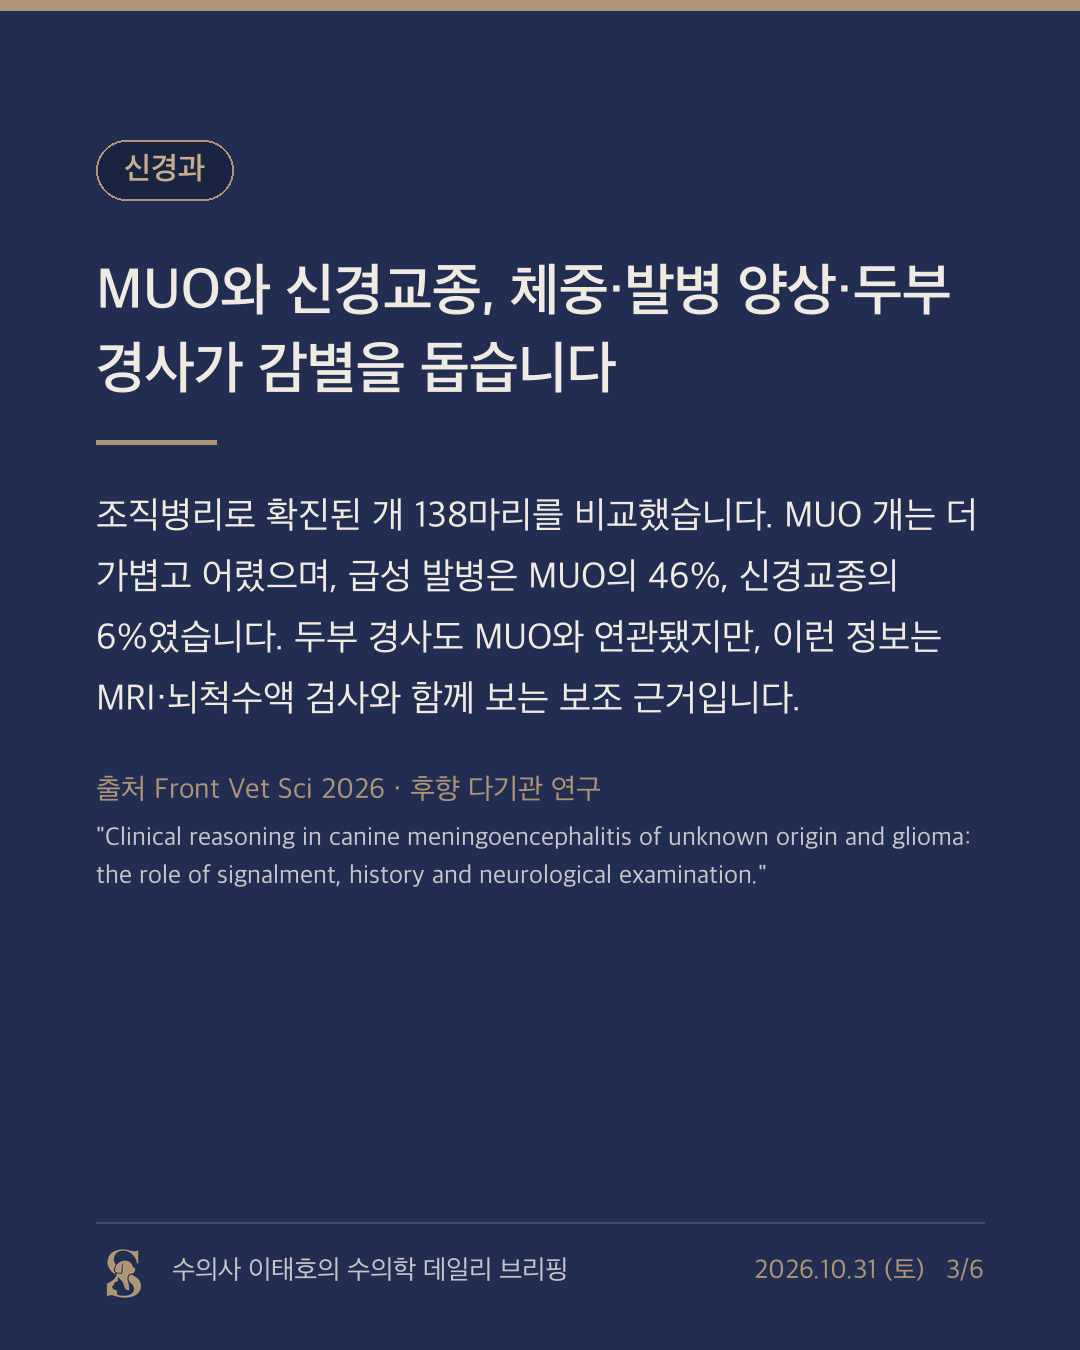
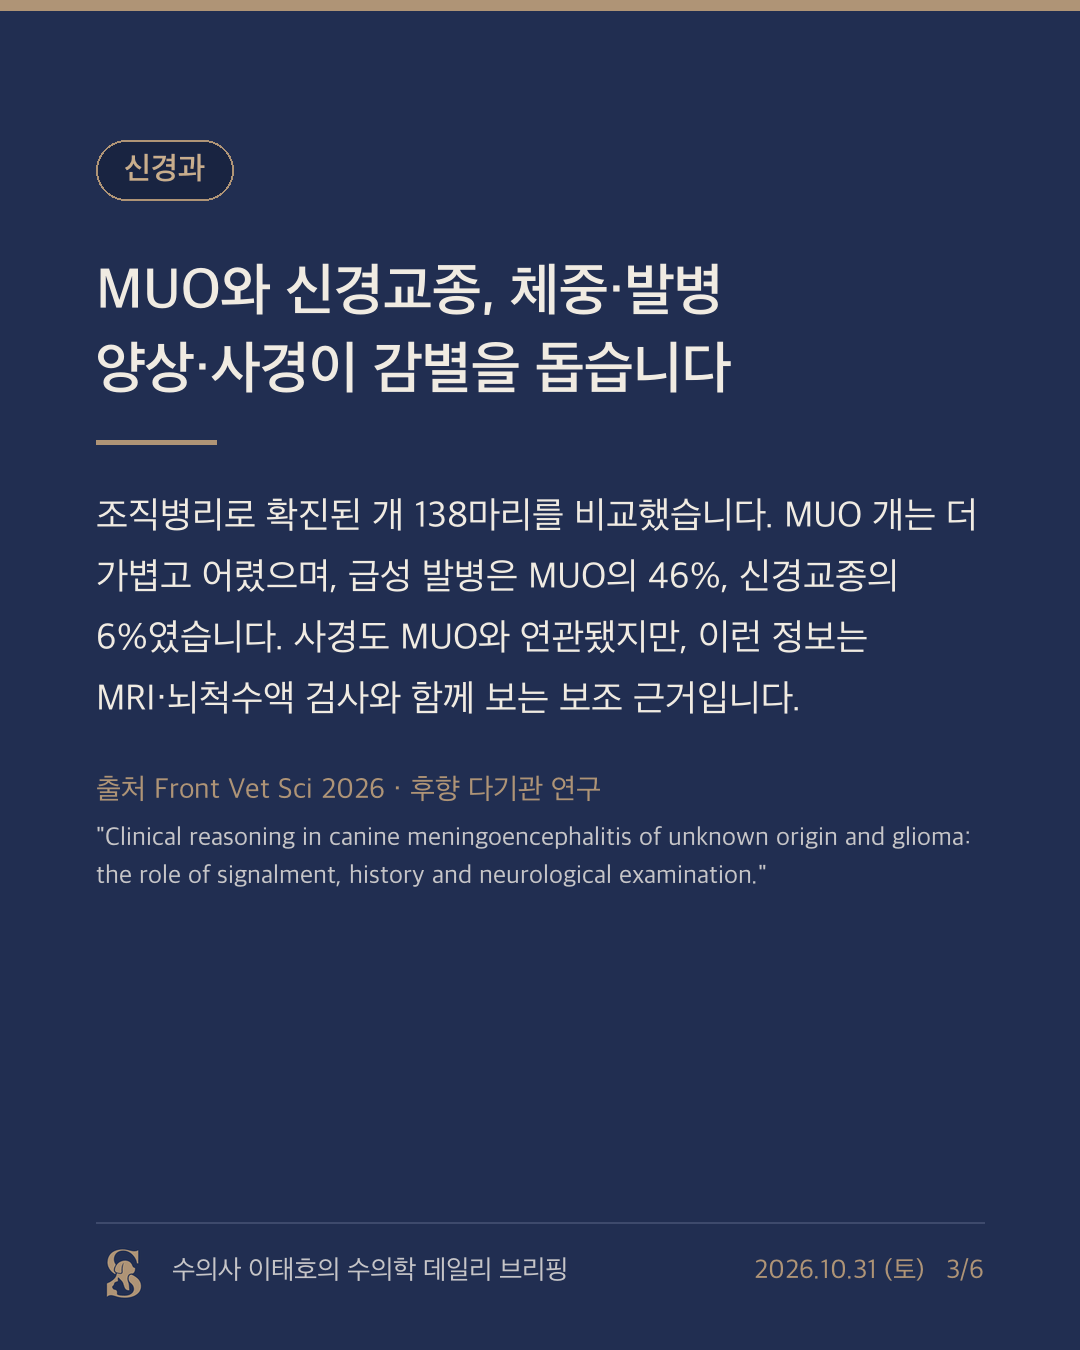
브리핑 2026-10-31 사경 표기

Changed region(s): [[0.0917, 0.2489, 0.6722, 0.3111], [0.275, 0.4356, 0.8556, 0.4978], [0.6722, 0.1867, 0.8861, 0.2489]]

diff --git a/reports/2026-10-31.md b/reports/2026-10-31.md
@@ -19,13 +19,13 @@ episode 수 중앙값은 시작 시점 6회(범위 2–60)에서 180일째 2회(
 - **근거 수준** — 전향 코호트 연구(개 23마리, 대조군 없음)
 - **교신저자** — Samuel Okonji (Department of Veterinary Medical Sciences, University of Bologna)
 
-### MUO인가 신경교종인가, 체중·발병 양상·두부 경사로 기울기를 가늠한다
+### MUO인가 신경교종인가, 체중·발병 양상·사경으로 기울기를 가늠한다
 
 MRI와 뇌척수액 소견이 애매할 때 원인불명 수막뇌염(MUO)과 신경교종을 가르는 일은 늘 어렵다. 하노버 수의대와 UC 데이비스가 조직병리로 진단이 확정된 개 138마리(MUO 70마리, 신경교종 68마리)의 신호, 병력, 신경학적 검사 소견을 비교했다.
 
-MUO 개는 체중 중앙값 10.50 kg, 나이 중앙값 5.00세로 신경교종 개(23.90 kg, 7.04세)보다 가볍고 어렸다(각각 p = 0.0007). 급성 발병(1–7일)은 MUO 69마리 중 32마리(46.38%), 신경교종 68마리 중 4마리(5.88%)였고, 14일을 넘는 만성 병력은 거꾸로 신경교종 쪽이 67.65%로 MUO의 31.88%보다 많았다. 다변량 모형에서 체중이 1 kg 늘 때마다 MUO일 오즈는 0.910배로 줄었고(95% CI 0.861–0.961), 두부 경사가 없으면 MUO일 오즈가 0.249배였다(95% CI 0.062–0.998). 체중 7.70 kg 이하를 기준으로 잡으면 MUO에 대한 특이도는 95.6%였지만 민감도는 40.6%에 그쳤다.
+MUO 개는 체중 중앙값 10.50 kg, 나이 중앙값 5.00세로 신경교종 개(23.90 kg, 7.04세)보다 가볍고 어렸다(각각 p = 0.0007). 급성 발병(1–7일)은 MUO 69마리 중 32마리(46.38%), 신경교종 68마리 중 4마리(5.88%)였고, 14일을 넘는 만성 병력은 거꾸로 신경교종 쪽이 67.65%로 MUO의 31.88%보다 많았다. 다변량 모형에서 체중이 1 kg 늘 때마다 MUO일 오즈는 0.910배로 줄었고(95% CI 0.861–0.961), 사경이 없으면 MUO일 오즈가 0.249배였다(95% CI 0.062–0.998). 체중 7.70 kg 이하를 기준으로 잡으면 MUO에 대한 특이도는 95.6%였지만 민감도는 40.6%에 그쳤다.
 
-**임상적 의미** — 7–8 kg 이하 소형견이 며칠 사이에 급하게 나빠졌고 머리를 기울이고 있다면 MUO 쪽으로 무게를 더 둘 수 있다. 반대로 덩치 큰 중년 개가 몇 주에 걸쳐 서서히 진행했다면 MRI가 염증처럼 보여도 신경교종을 쉽게 지우지 않는 편이 맞다. 저자들도 강조했듯 체중 기준은 이 코호트에서 탐색적으로 잡은 값이고 민감도가 낮아, MRI·뇌척수액·감염 검사와 함께 보는 보조 정보다. 면역억제 치료를 시작하기 전 보호자에게 진단의 불확실성을 설명할 때 근거로 쓸 만하다.
+**임상적 의미** — 7–8 kg 이하 소형견이 며칠 사이에 급하게 나빠졌고 사경이 있다면 MUO 쪽으로 무게를 더 둘 수 있다. 반대로 덩치 큰 중년 개가 몇 주에 걸쳐 서서히 진행했다면 MRI가 염증처럼 보여도 신경교종을 쉽게 지우지 않는 편이 맞다. 저자들도 강조했듯 체중 기준은 이 코호트에서 탐색적으로 잡은 값이고 민감도가 낮아, MRI·뇌척수액·감염 검사와 함께 보는 보조 정보다. 면역억제 치료를 시작하기 전 보호자에게 진단의 불확실성을 설명할 때 근거로 쓸 만하다.
 
 - **출처** — Frontiers in Veterinary Science, 2026 · [DOI 10.3389/fvets.2026.1920683](https://doi.org/10.3389/fvets.2026.1920683)
 - **원제** — *Clinical reasoning in canine meningoencephalitis of unknown origin and glioma: the role of signalment, history and neurological examination.*
